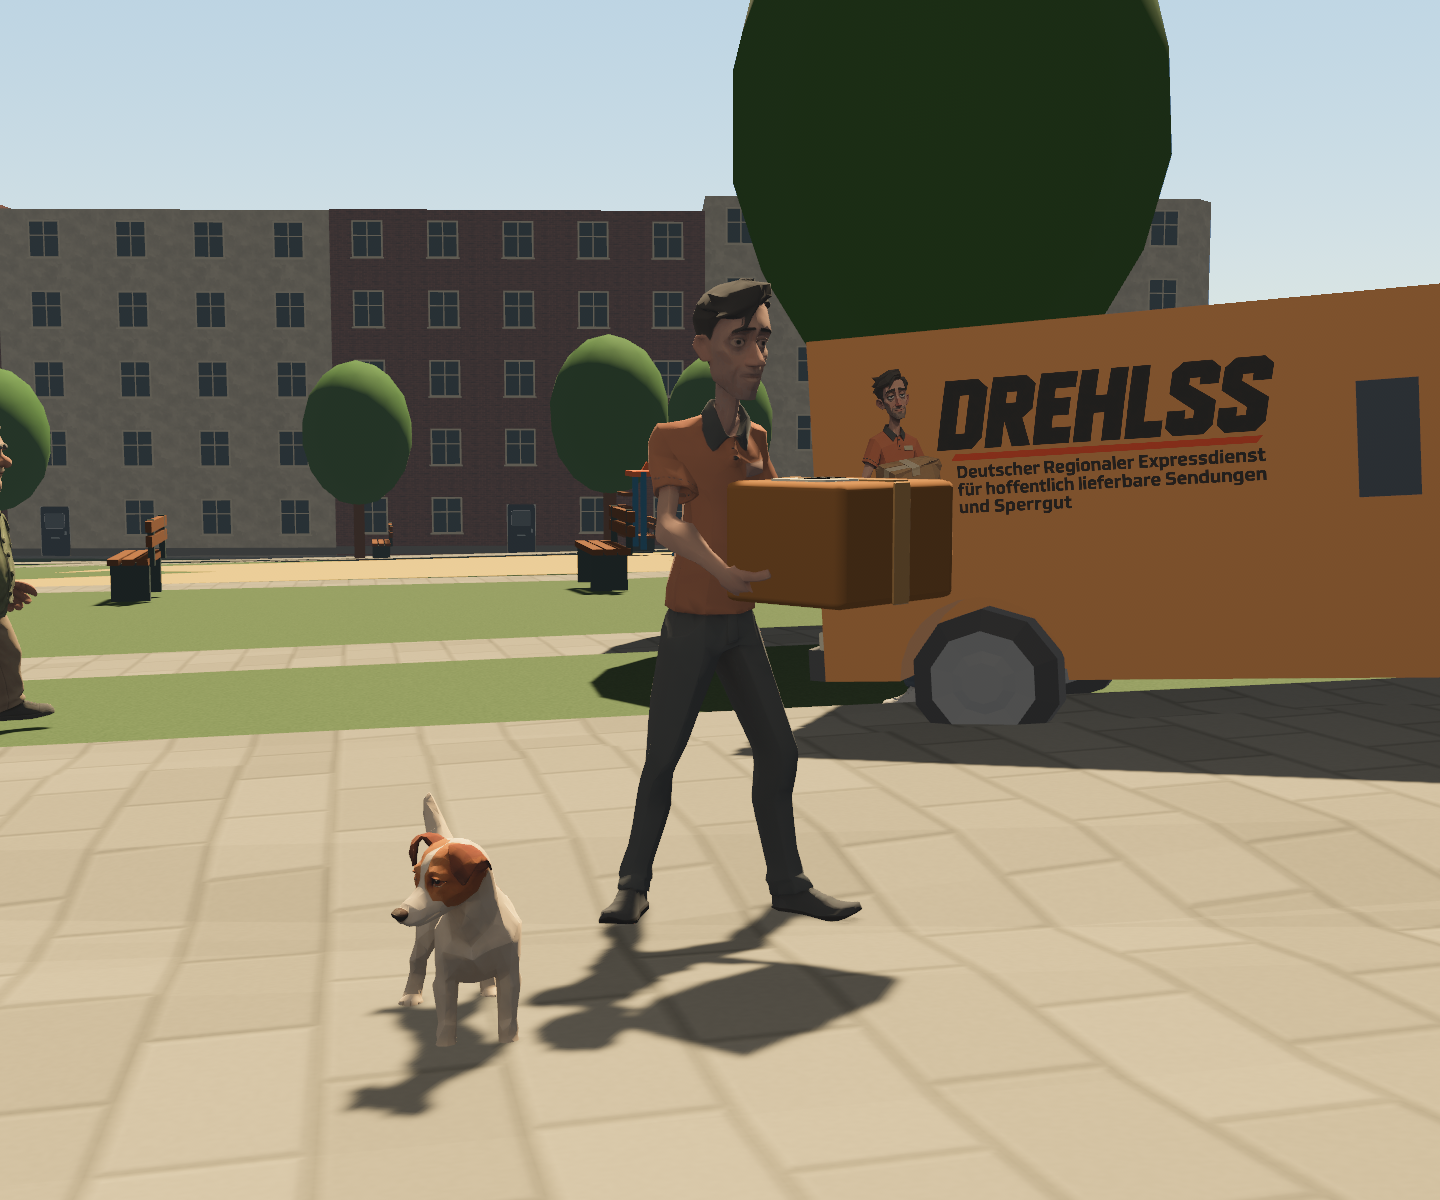
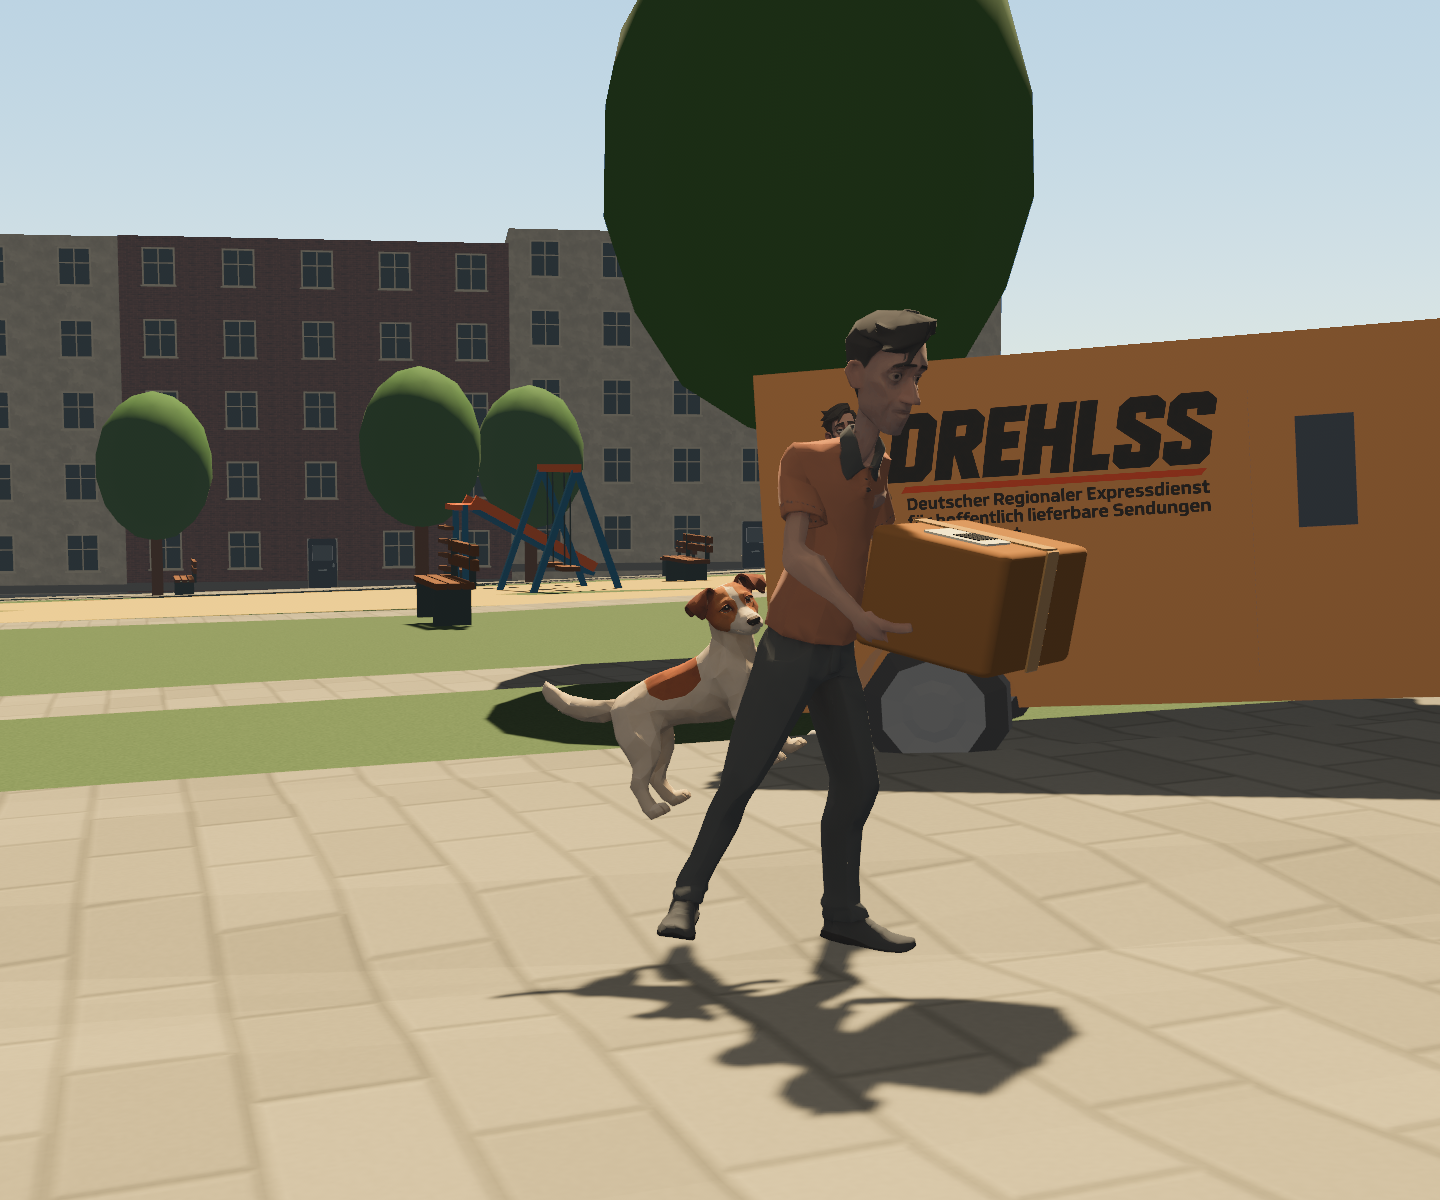
Restore the terrier bite on the welcome screen

diff --git a/crates/game/src/press_scene.rs b/crates/game/src/press_scene.rs
@@ -78,9 +78,11 @@ fn compose(
         let courier_heading = rotation * Quat::from_rotation_y(0.91);
         let courier_position =
             ground(base + right * 0.58) + Vec3::Y * crate::roads::surface_rise(&elevation.heights);
+        let courier_pose = Transform::from_translation(courier_position + Vec3::Y * 0.035)
+            .with_rotation(courier_heading * Quat::from_rotation_x(-0.18));
         let courier = commands
             .spawn((
-                Transform::from_translation(courier_position).with_rotation(courier_heading),
+                courier_pose,
                 Visibility::default(),
                 HoldingParcel,
                 DespawnOnExit(Mode::Ride),
@@ -95,10 +97,7 @@ fn compose(
             ))
             .id();
         models.parcel(&mut commands, box_root);
-        let dog_position = ground(base + forward * 0.96 + right * 1.09)
-            + Vec3::Y * crate::roads::surface_rise(&elevation.heights);
-        let dog_pose =
-            Transform::from_translation(dog_position).looking_to(forward - right * 0.35, Vec3::Y);
+        let dog_pose = bite_pose(courier_pose, courier_heading);
         let dog = commands
             .spawn((dog_pose, Visibility::default(), DespawnOnExit(Mode::Ride)))
             .id();
@@ -124,13 +123,24 @@ fn compose(
     let forward = rotation * Vec3::NEG_Z;
     let right = rotation * Vec3::X;
     if let Ok((mut camera, mut projection)) = cameras.single_mut() {
-        let focus = base - forward * 1.1 + right * 0.69 + Vec3::Y * 0.80;
-        *camera = Transform::from_translation(base + forward * 4.5 + right * 0.25 + Vec3::Y * 1.36)
+        let focus = base - forward * 1.1 + right * 0.70 + Vec3::Y * 0.91;
+        *camera = Transform::from_translation(base + forward * 4.5 + right * 0.95 + Vec3::Y * 1.36)
             .looking_at(focus, Vec3::Y);
         if let Projection::Perspective(lens) = &mut *projection {
             lens.fov = 39_f32.to_radians();
         }
     }
+}
+
+fn bite_pose(courier: Transform, heading: Quat) -> Transform {
+    // Frame the terrier mid-lunge with its muzzle against the back of the trousers.
+    // These points are in the actor roots' coordinates with their meshes facing -Z.
+    let trousers = courier.transform_point(Vec3::new(0.155, 0.84, 0.185));
+    let muzzle = Vec3::new(0.13, 0.36, -0.26);
+    let direction = heading * Vec3::new(-0.36, 0.53, -1.0);
+    let mut pose = Transform::IDENTITY.looking_to(direction, Vec3::Y);
+    pose.translation = trousers - pose.rotation * muzzle;
+    pose
 }
 
 fn dress_chamissoplatz(
